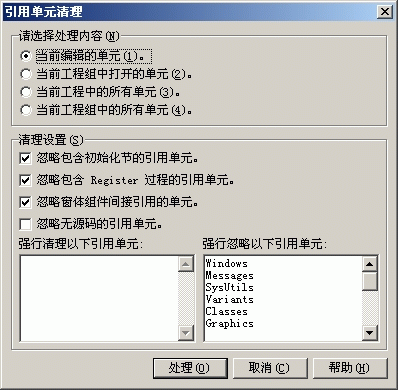
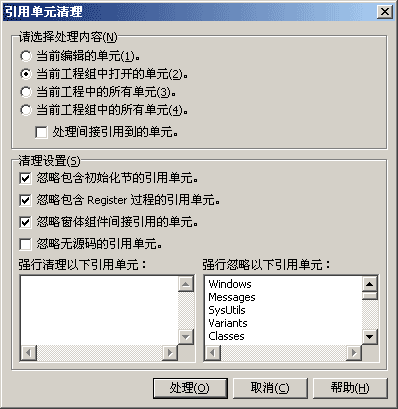
* [Help] Update Help and Snapshot for UsesCleaner.

Changed region(s): [[0.0, 0.0, 0.995, 0.9846]]

diff --git a/Help/CnWizards_ENU/wizards/cnusescleaner.htm b/Help/CnWizards_ENU/wizards/cnusescleaner.htm
@@ -38,6 +38,9 @@
 	<li>
 <p class="text" align="left"><b>All Units in Current ProjectGroup</b>: Search all units in current ProjectGroup.</p>
   </li>
+  <li>
+<p class="text" align="left"><b>Include Indirectly Used Units</b>: If checked, uses cleaner will process the indirectly used units with source, not only in Project or ProjectGroup.</p>
+  </li>
 	<li>
 <p class="text" align="left"><b>Skip Used Units including Initialization Part</b>: Whether skip those units which contain initialization part in searching. The part may contains some initialization operations and removing the reference may cause problems.</p>
   </li>
